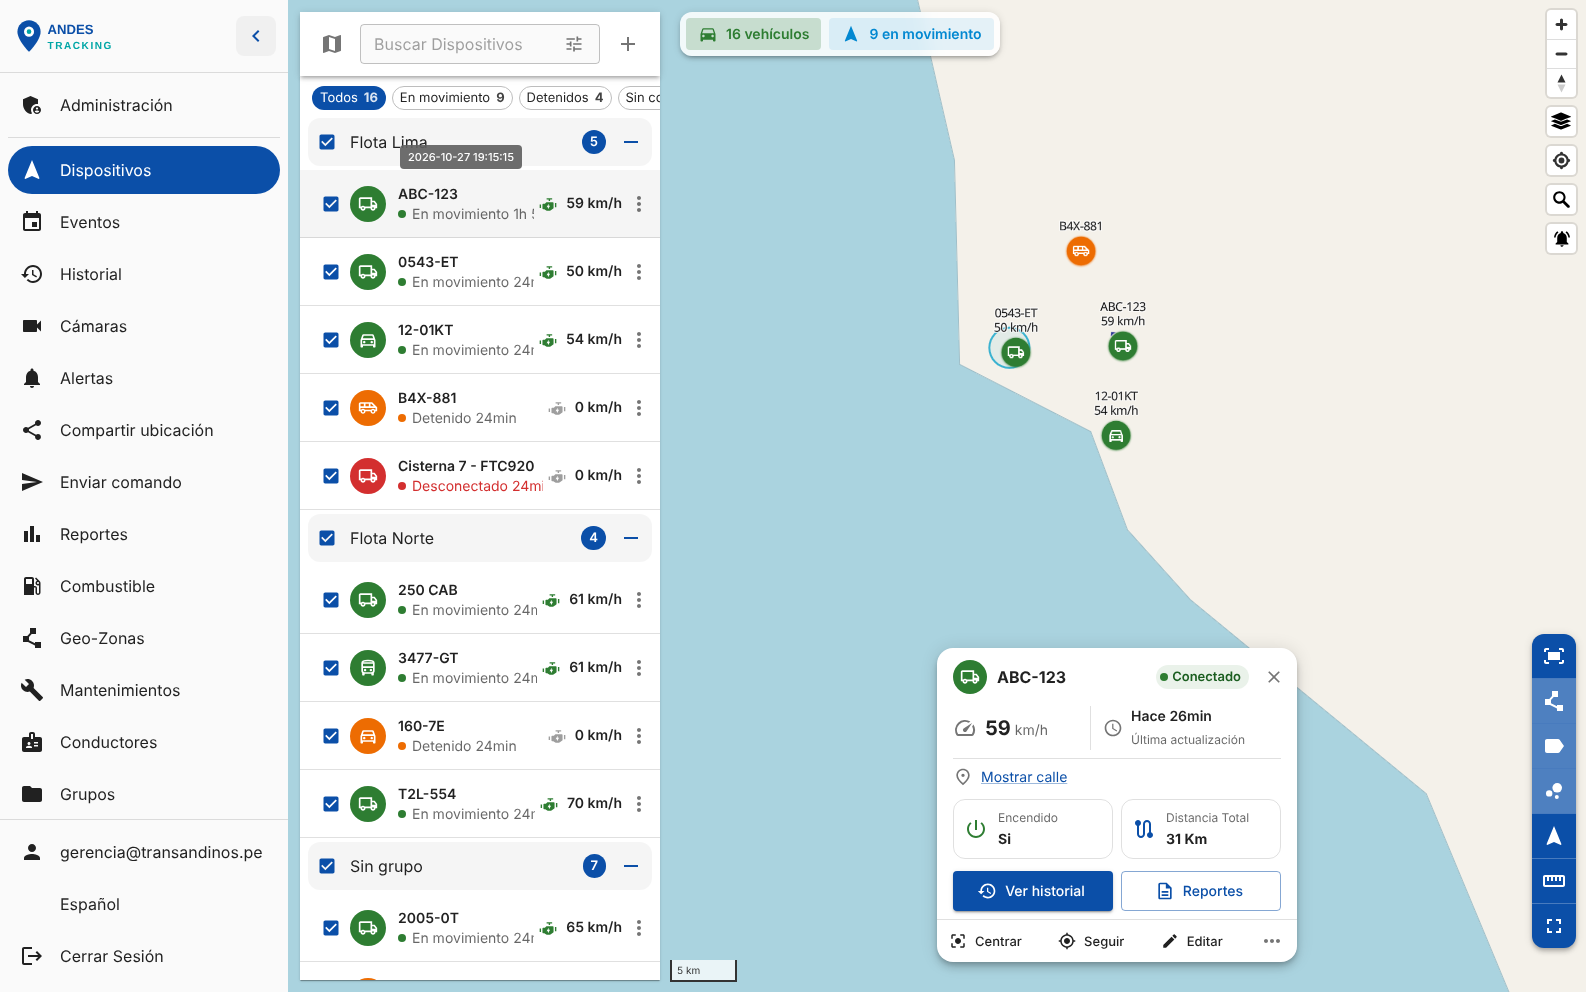
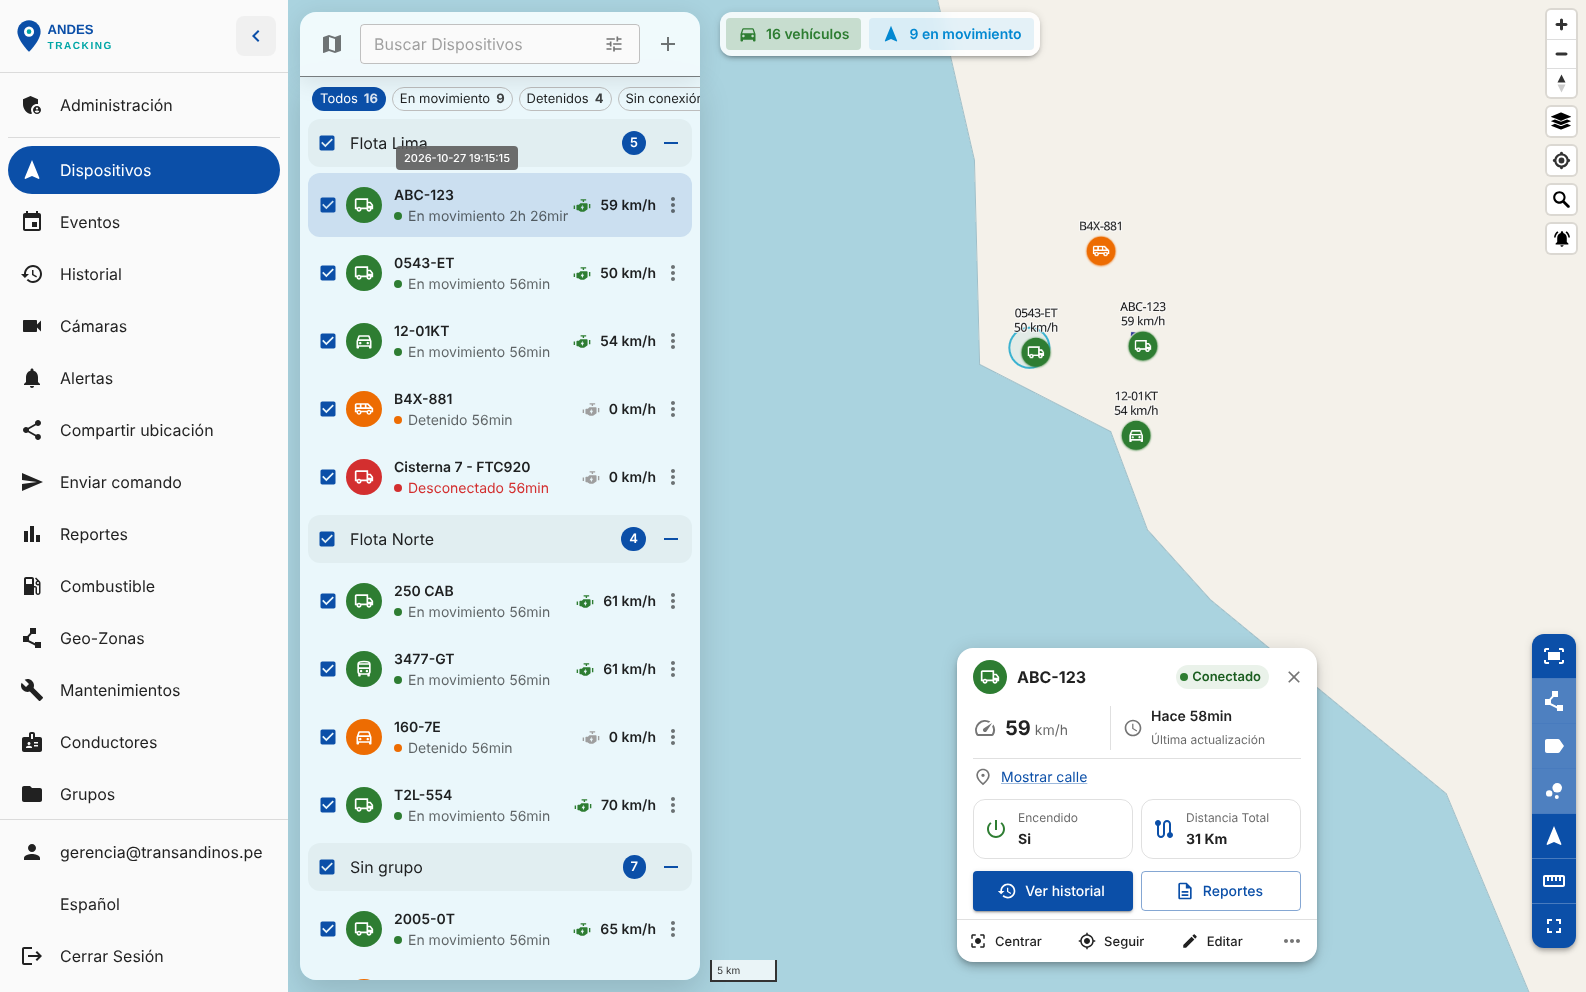
Make the device list a subtle translucent panel with rounded corners
- Desktop list and toolbar float as one translucent, blurred panel with
  rounded corners and a soft shadow
- Card-like rows with rounded hover / selected states instead of hard
  dividers; lighter group headers
- Dedicated 400 px width for the map list so status texts fit, without
  widening the settings and report menus

Claude-Session: https://claude.ai/code/session_01BDt2R4TKk3QGNRuJmLv2ho

diff --git a/tracking-platform/web/src/main/MainPage.jsx b/tracking-platform/web/src/main/MainPage.jsx
@@ -33,11 +33,12 @@ const useStyles = makeStyles()((theme) => ({
     display: 'flex',
     flexDirection: 'column',
     [theme.breakpoints.up('md')]: {
+
       position: 'fixed',
       left: 0,
       top: 0,
       height: `calc(100% - ${theme.spacing(3)})`,
-      width: theme.dimensions.drawerWidthDesktop,
+      width: theme.dimensions.deviceListWidth,
       margin: theme.spacing(1.5),
       zIndex: 3,
     },
@@ -49,6 +50,22 @@ const useStyles = makeStyles()((theme) => ({
   header: {
     pointerEvents: 'auto',
     zIndex: 6,
+    [theme.breakpoints.up('md')]: {
+      borderRadius: `${theme.spacing(2)} ${theme.spacing(2)} 0 0`,
+      backgroundColor: alpha(theme.palette.background.paper, 0.86),
+      backdropFilter: 'blur(14px) saturate(160%)',
+      boxShadow: `0 4px 24px ${alpha(theme.palette.common.black, 0.1)}`,
+      borderBottom: `1px solid ${alpha(theme.palette.divider, 0.5)}`,
+    },
+  },
+  glass: {
+    [theme.breakpoints.up('md')]: {
+      borderRadius: `0 0 ${theme.spacing(2)} ${theme.spacing(2)}`,
+      backgroundColor: alpha(theme.palette.background.paper, 0.8),
+      backdropFilter: 'blur(14px) saturate(160%)',
+      boxShadow: `0 12px 32px ${alpha(theme.palette.common.black, 0.14)}`,
+      overflow: 'hidden',
+    },
   },
   middle: {
     flex: 1,
@@ -86,7 +103,7 @@ const useStyles = makeStyles()((theme) => ({
   counters: {
     position: 'fixed',
     top: theme.spacing(1.5),
-    left: `calc(${theme.dimensions.drawerWidthDesktop} + ${theme.spacing(4)})`,
+    left: `calc(${theme.dimensions.deviceListWidth} + ${theme.spacing(4)})`,
     zIndex: 3,
     display: 'flex',
     gap: theme.spacing(1),
@@ -197,7 +214,7 @@ const MainPage = () => {
               />
             </div>
           )}
-          <Paper square className={classes.contentList} style={devicesOpen ? {} : { visibility: 'hidden' }}>
+          <Paper square elevation={0} className={`${classes.contentList} ${classes.glass}`} style={devicesOpen ? {} : { visibility: 'hidden' }}>
             <div className={classes.quickFilters}>
               {quickOptions.map(([key, label, count, color]) => (
                 <Chip
@@ -250,7 +267,7 @@ const MainPage = () => {
           deviceId={selectedDeviceId}
           position={selectedPosition}
           onClose={() => dispatch(devicesActions.selectId(null))}
-          desktopPadding={theme.dimensions.drawerWidthDesktop}
+          desktopPadding={theme.dimensions.deviceListWidth}
         />
       )}
     </div>

diff --git a/tracking-platform/web/src/main/DeviceRow.jsx b/tracking-platform/web/src/main/DeviceRow.jsx
@@ -2,6 +2,7 @@ import { useState } from 'react';
 import { useDispatch, useSelector } from 'react-redux';
 import { useNavigate } from 'react-router-dom';
 import { makeStyles } from 'tss-react/mui';
+import { alpha } from '@mui/material/styles';
 import {
   Checkbox, Chip, IconButton, ListItemIcon, ListItemText, Menu, MenuItem, Tooltip, Typography,
 } from '@mui/material';
@@ -39,8 +40,8 @@ const useStyles = makeStyles()((theme) => ({
     height: GROUP_ROW_HEIGHT - 8,
     margin: theme.spacing(0.5, 1),
     paddingRight: theme.spacing(0.5),
-    borderRadius: theme.shape.borderRadius * 3,
-    backgroundColor: theme.palette.action.hover,
+    borderRadius: theme.spacing(1.5),
+    backgroundColor: alpha(theme.palette.text.primary, 0.04),
   },
   groupName: {
     flexGrow: 1,
@@ -50,16 +51,21 @@ const useStyles = makeStyles()((theme) => ({
   device: {
     display: 'flex',
     alignItems: 'center',
-    height: DEVICE_ROW_HEIGHT,
-    padding: theme.spacing(0, 0.5, 0, 1.5),
+    height: DEVICE_ROW_HEIGHT - 4,
+    margin: theme.spacing(0.25, 1),
+    padding: theme.spacing(0, 0.25, 0, 0.75),
     cursor: 'pointer',
-    borderBottom: `1px solid ${theme.palette.divider}`,
+    borderRadius: theme.spacing(1.5),
+    transition: 'background-color 0.15s',
     '&:hover': {
-      backgroundColor: theme.palette.action.hover,
+      backgroundColor: alpha(theme.palette.primary.main, 0.06),
     },
   },
   selected: {
-    backgroundColor: theme.palette.action.selected,
+    backgroundColor: alpha(theme.palette.primary.main, 0.12),
+    '&:hover': {
+      backgroundColor: alpha(theme.palette.primary.main, 0.14),
+    },
   },
   disabled: {
     opacity: 0.5,
@@ -218,6 +224,7 @@ export const DeviceRow = ({ row, data }) => {
       {data.setHidden && (
         <Checkbox
           size="small"
+          sx={{ p: 0.5, mr: 0.5 }}
           checked={!data.hidden.has(item.id)}
           onClick={(event) => event.stopPropagation()}
           onChange={(event) => data.setHidden([item.id], !event.target.checked)}

diff --git a/tracking-platform/web/src/main/MainMap.jsx b/tracking-platform/web/src/main/MainMap.jsx
@@ -119,7 +119,7 @@ const MainMap = ({ filteredPositions, selectedPosition, onEventsClick }) => {
         <MapNotification enabled={eventsAvailable} onClick={onEventsClick} />
       )}
       {desktop && (
-        <MapPadding start={parseInt(theme.dimensions.drawerWidthDesktop, 10) + parseInt(theme.spacing(1.5), 10)} />
+        <MapPadding start={parseInt(theme.dimensions.deviceListWidth, 10) + parseInt(theme.spacing(1.5), 10)} />
       )}
     </>
   );

diff --git a/tracking-platform/web/src/common/theme/dimensions.js b/tracking-platform/web/src/common/theme/dimensions.js
@@ -2,6 +2,7 @@ export default {
   sidebarWidth: '28%',
   sidebarWidthTablet: '52px',
   drawerWidthDesktop: '360px',
+  deviceListWidth: '400px',
   drawerWidthTablet: '320px',
   drawerHeightPhone: '250px',
   filterFormWidth: '160px',

diff --git a/tracking-platform/README.md b/tracking-platform/README.md
@@ -133,7 +133,7 @@ Basado en tus capturas de referencia:
 - Menú de **Administración** (gerentes y superadministrador): Descripción general con contadores, Usuarios (con
   contador y columna *Gerente*), Dispositivos (en línea/total), Métricas, Configuración del servidor, Apariencia,
   Anuncios, Calendarios, Atributos calculados, Comandos guardados, Registros y Auditoría.
-- **Mapa en vivo** (diseño actualizado): filtros rápidos con contador sobre la lista (*Todos*, *En movimiento*,
+- **Mapa en vivo** (diseño actualizado): lista en un panel flotante translúcido con esquinas redondeadas y filas tipo tarjeta; filtros rápidos con contador sobre la lista (*Todos*, *En movimiento*,
   *Detenidos*, *Sin conexión*), que filtran también el mapa; resumen flotante "N vehículos · N en movimiento"; filas
   compactas con el icono del vehículo en el color de su estado (verde en movimiento, ámbar detenido, rojo sin
   conexión), estado con duración, encendido y velocidad; **marcadores rellenos con el mismo color** y la velocidad
